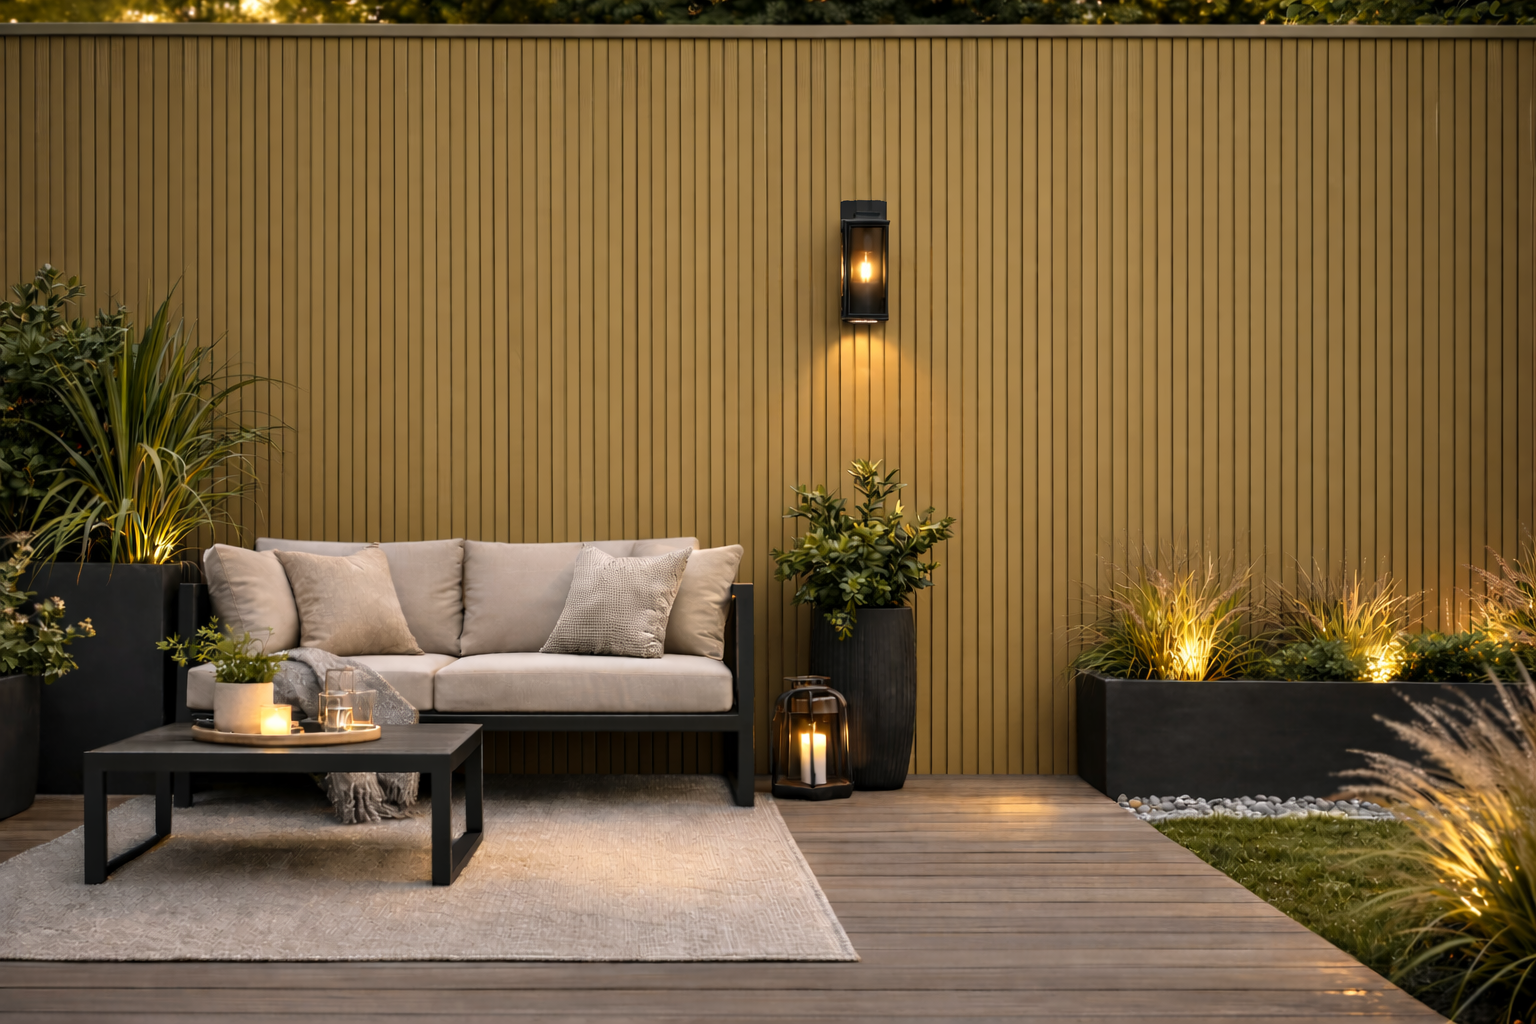
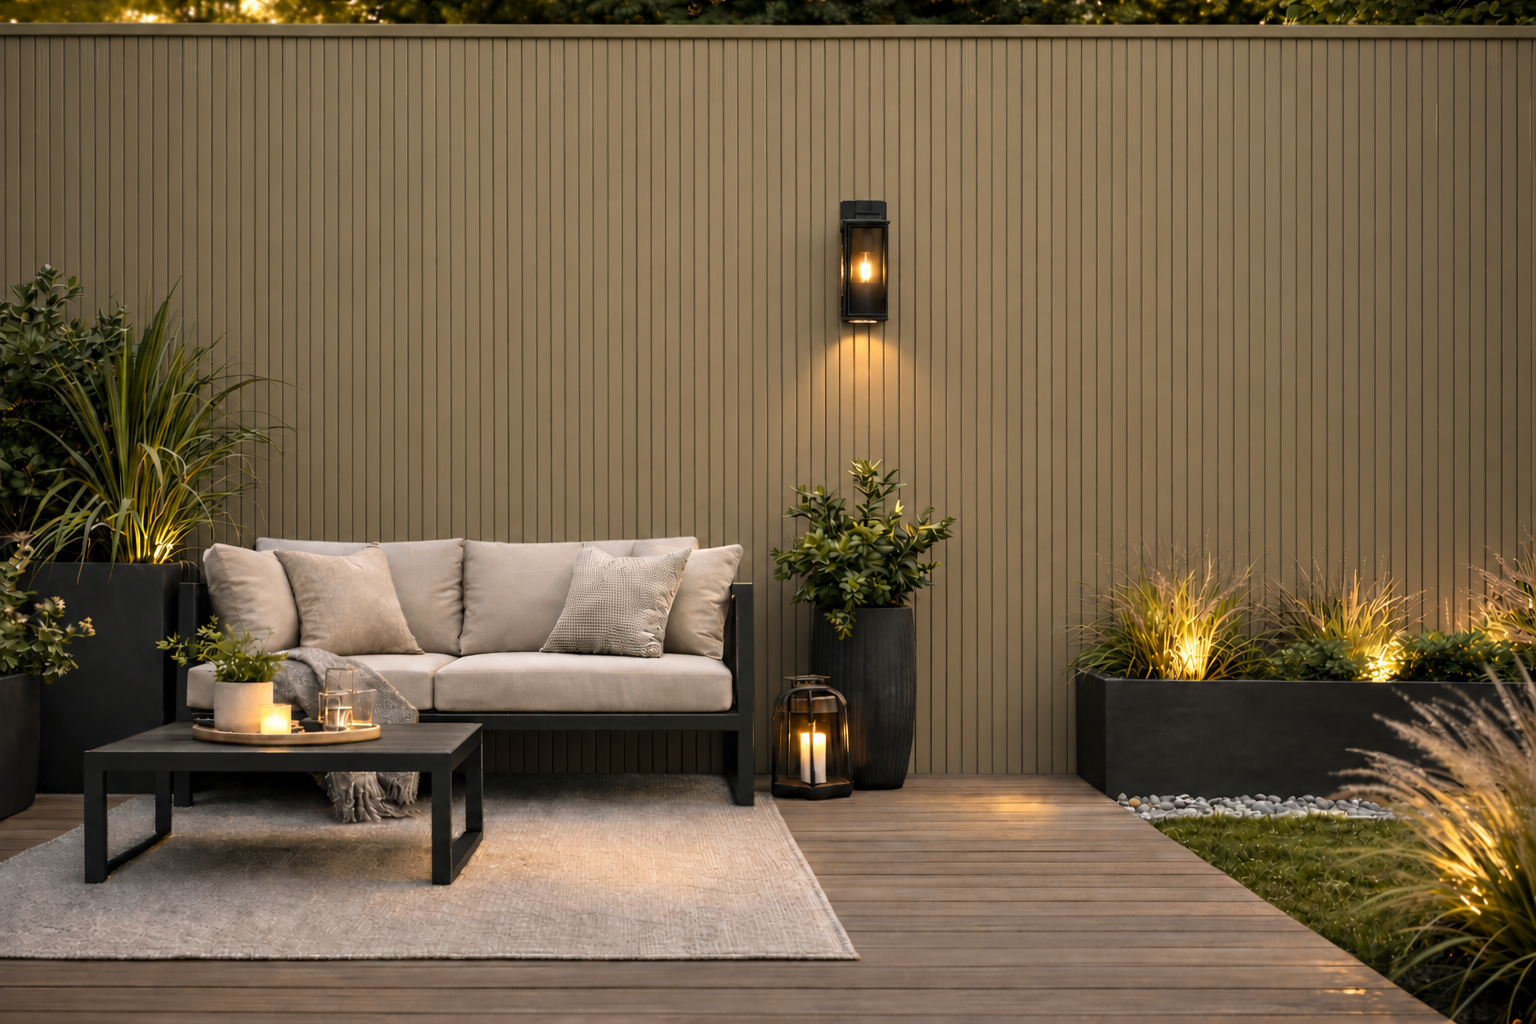
Updated Khaki images

diff --git a/index.html b/index.html
@@ -5528,6 +5528,19 @@
      
           <h3>DECKING</h3><br />
           <div class="product-card">
+          <img src="images/85a03.png" alt="85A" />
+          <div class="product-body">
+            <h3>85A Decking - Oak 03</h3>
+            <p>
+             4 pieces per pack
+            </p>
+            <div class="specs">
+              <strong>Size:</strong><br />
+              <span class="full">15 x 290 x 2.3cm per panel</span>
+            </div>
+          </div>
+        </div>
+          <div class="product-card">
           <img src="images/85b.png" alt="85B" />
           <div class="product-body">
             <h3>85B Decking - Grey</h3>
@@ -5585,6 +5598,19 @@
 
           <h3>FENCING</h3><br />
           <div class="product-card">
+          <img src="images/86a03.png" alt="86A" />
+          <div class="product-body">
+            <h3>86A Fencing - Oak 03</h3>
+            <p>
+             6 pieces per pack
+            </p>
+            <div class="specs">
+              <strong>Size:</strong><br />
+              <span class="full">15 x 180 x 2cm per fitted and interlocked panel</span>
+            </div>
+          </div>
+        </div>
+          <div class="product-card">
           <img src="images/86b.png" alt="86B" />
           <div class="product-body">
             <h3>86B Fencing - Grey</h3>
@@ -5641,6 +5667,19 @@
         </div>
 
           <h3>PANELS</h3><br />
+          <div class="product-card">
+          <img src="images/87a03.png" alt="87A" />
+          <div class="product-body">
+            <h3>87A Panel - Oak 03</h3>
+            <p>
+             6 pieces per pack
+            </p>
+            <div class="specs">
+              <strong>Size:</strong><br />
+              <span class="full">13.5 x 290 x 2cm per fitted and interlocked panel</span>
+            </div>
+          </div>
+        </div>
           <div class="product-card">
           <img src="images/87b.png" alt="87B" />
           <div class="product-body">
